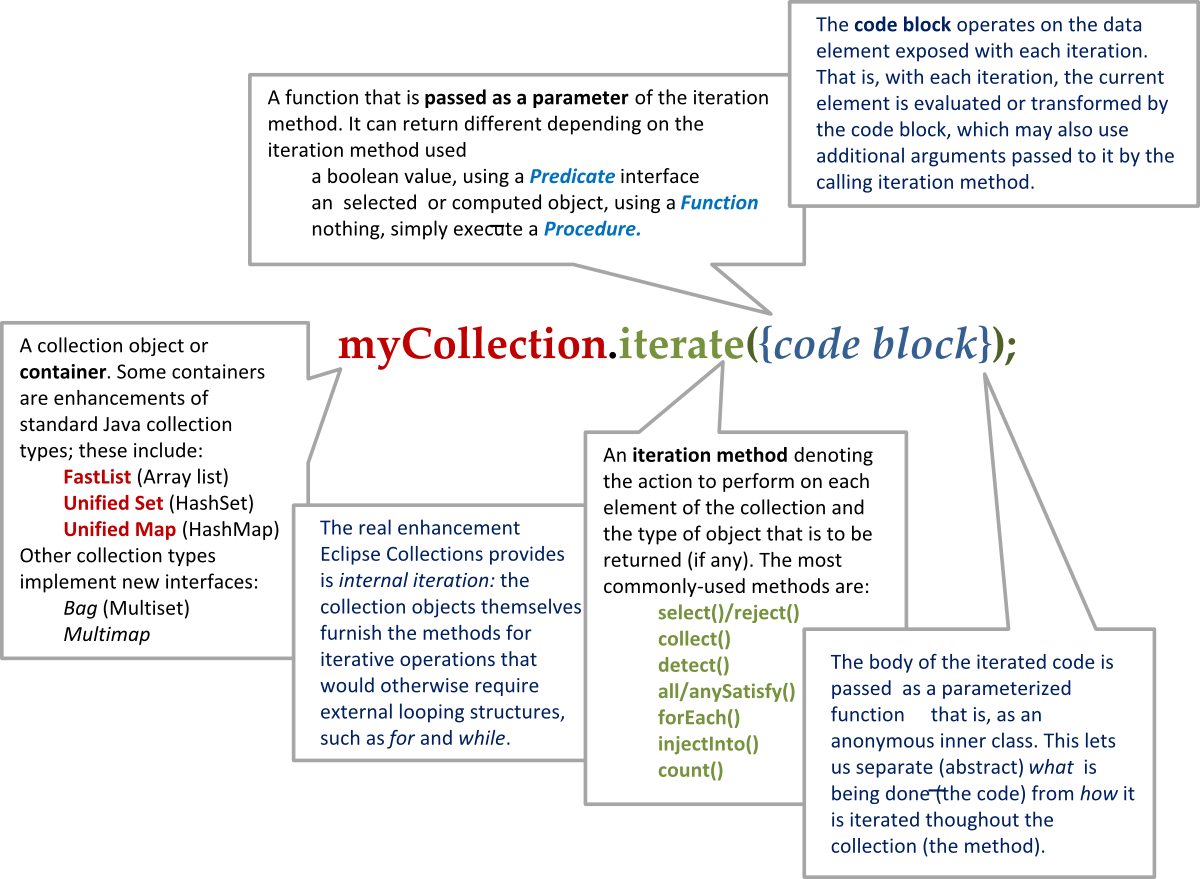
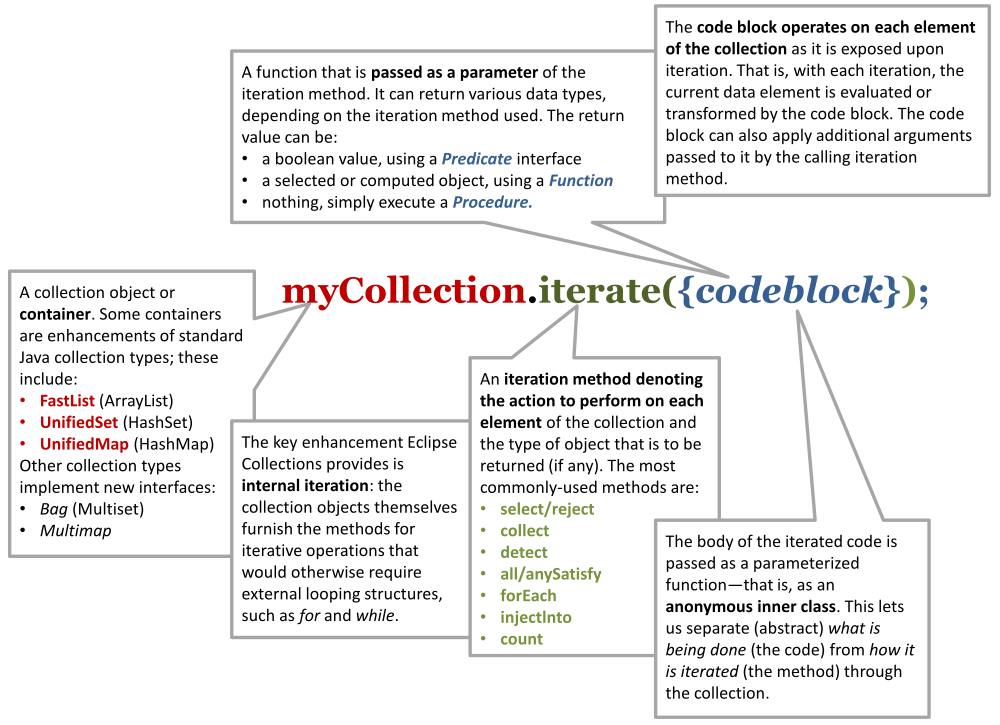
Corrections to syntax diagram in EC Reference Guide
New png file for syntax diagram, correcting typos; added a Markdown doc file of the callout text.

Changed region(s): [[0.0, 0.0, 1.0, 1.0]]

diff --git a/docs/EclipseCollectionDiagram.md b/docs/EclipseCollectionDiagram.md
@@ -1,0 +1,58 @@
+
+This is the basic syntax for Eclipse Collections
+## myCollection.iterate({*codeblock*});
+
+### *myCollection*
+
+A collection object or **container**. Some containers are enhancements
+of standard Java collection types; these include:
+
+  - **FastList** (ArrayList)
+  - **UnifiedSet** (HashSet)
+  - **UnifiedMap** (HashMap)
+
+Other collection types implement new interfaces:
+
+  - *Bag* (Multiset)
+  - *Multimap*
+
+The key enhancement Eclipse Collections provides is **internal
+iteration**: the collection objects themselves furnish the methods for
+iterative operations that would otherwise require external **looping**
+structures, such as *for* and *while*.
+
+### *iterate*
+
+An **iteration method denoting** **the action to perform on each
+element** of the collection and the type of object that is to be
+returned (if any). The most commonly-used methods are:
+
+  - **select/reject**
+  - **collect**
+  - **detect**
+  - **all/anySatisfy**
+  - **forEach**
+  - **injectlnto**
+  - **count**
+
+### *codeblock*
+
+A function that is **passed as a parameter** of the iteration method. It
+can return various data types, depending on the iteration method used.
+The return value can be:
+
+  - a boolean value, using a **Predicate** interface
+  - a selected or computed object, using a **Function**
+  - nothing, simply execute a **Procedure.**
+
+The body of the iterated code is passed as a parameterized function, that
+is, as an **anonymous inner class**. This lets us separate (abstract)
+*what is being done* (the code) from *how it is iterated* (the method)
+through the collection.
+
+The **code block operates on each element of the collection** as it is
+exposed upon iteration. That is, with each iteration, the current data
+element is evaluated or transformed by the code block. The code block
+can also apply additional arguments passed to it by the calling
+iteration method.
+
